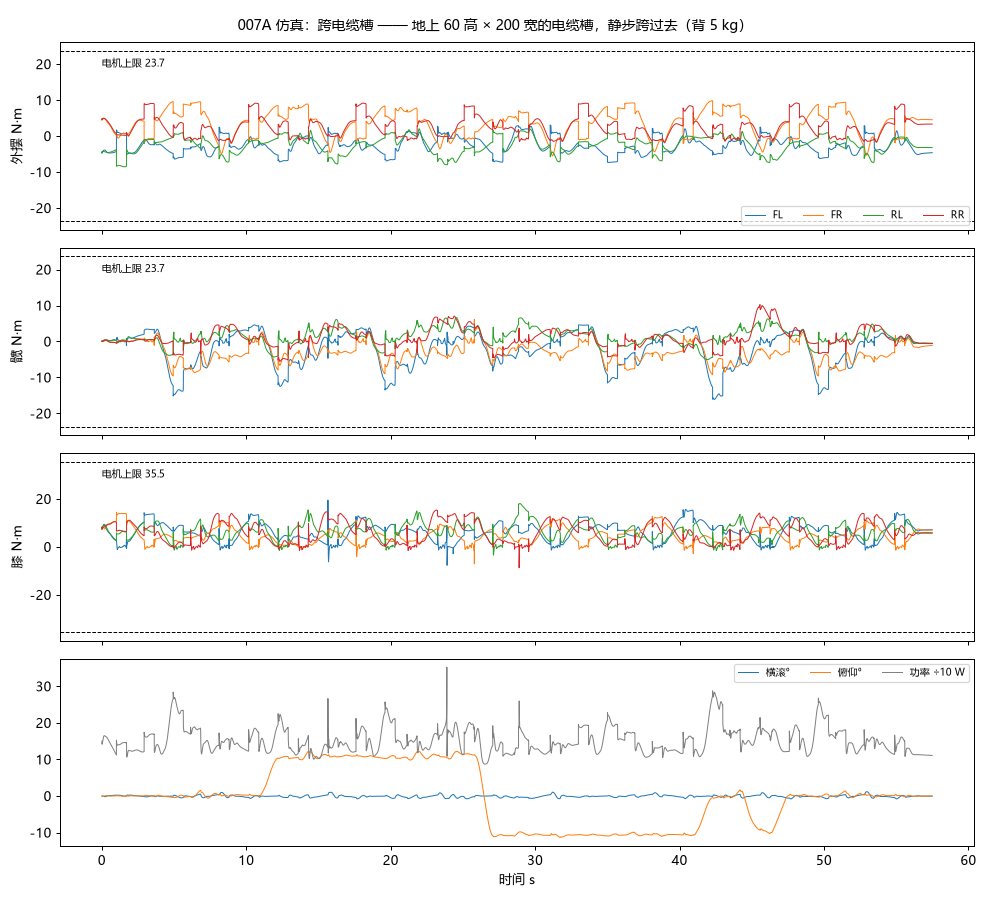
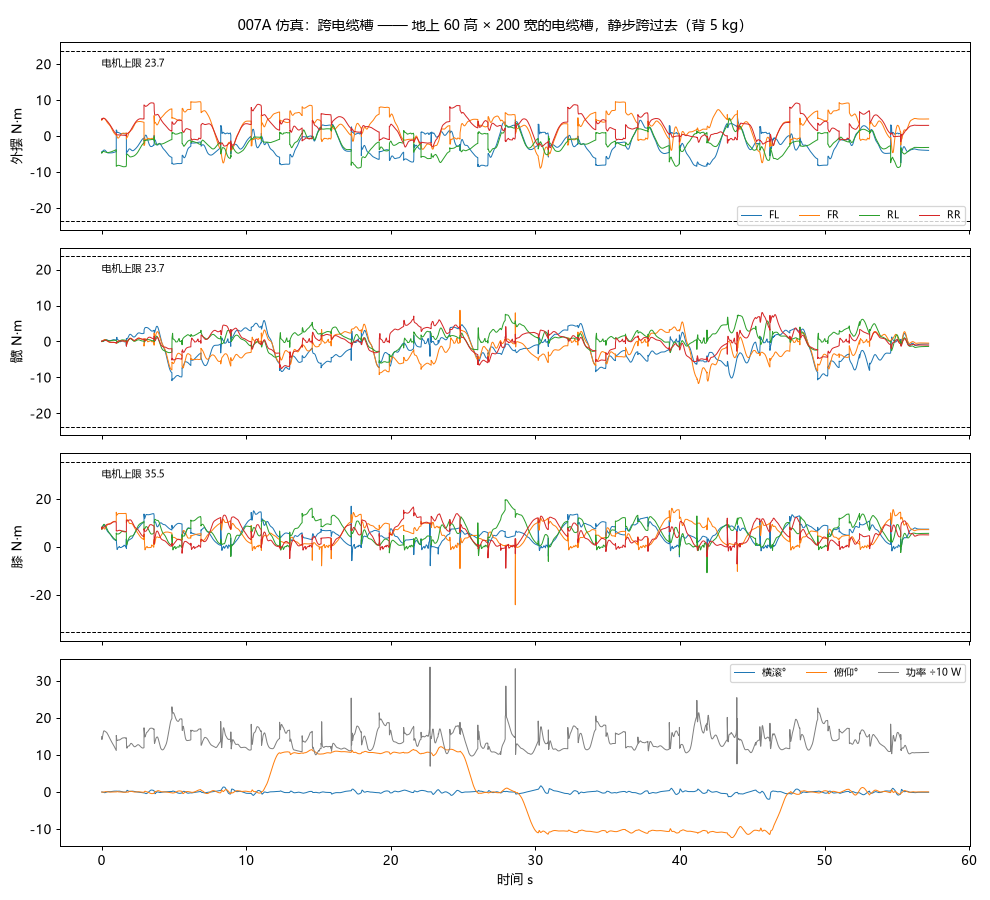
007A 仿真第二版：机身高度/俯仰按需再挑、撑脚跟随实际位置；正着上住宅楼梯、跨电缆槽通过，公共楼梯/倒着上/正着下仍摔；报告更新（腿结构不改）

diff --git a/007a/sim/run_sim.py b/007a/sim/run_sim.py
@@ -651,9 +651,38 @@ def plan_crawl(T, feet0, x_start, x_goal, com_fn, H, D, direction, ph_r, ph_f, c
     def legs_ok(x, i, feet):
         return min(leg_check(hip2d(LEGS[j], x), np.array([feet[j][0], feet[j][2]]), T) for j in range(4) if j != i)
 
+    def hip_at(leg, x, z, th):
+        h = np.array([x, 0, z]) + rpy_mat(0, -th) @ np.array([SIDE[leg][0] * HX, 0, 0])
+        return np.array([h[0], h[2]])
+
+    def pose_margin(x, z, th, i, feet, swing_pts):
+        """机身在 (x, z, th) 时：撑着的腿 + 跨的那条腿（抬到最高的两个点）离台阶 / 够不够得着的最小余量。"""
+        m = min(leg_check(hip_at(LEGS[j], x, z, th), np.array([feet[j][0], feet[j][2]]), T) for j in range(4) if j != i)
+        if i >= 0:
+            m = min([m] + [leg_check(hip_at(LEGS[i], x, z, th), q, T) for q in swing_pts])
+        return m
+
+    def best_pose(x, z0, th0, i, feet, swing_pts, prev_off):
+        """机身高度、俯仰在规则给的值附近再挑：高低 ±5 cm、俯仰 ±10°（最多斜 22°，背上货不滑）。
+        上下楼梯的开头、结尾机身在“变坡”，规则给的高度 / 俯仰常常让腿拉太直或收太紧，这里补上。
+        跟上一步比，改的量每步最多变 2 cm / 5°（不然两步之间机身猛地一抬一低会翻）；余量够了（≥ 2 cm）就挑跟上一步最接近的。"""
+        best = None
+        for dz in np.arange(-0.05, 0.0501, 0.01):
+            for dth in np.radians(np.arange(-10, 10.01, 2.5)):
+                if abs(dz - prev_off[0]) > 0.0201 or abs(dth - prev_off[1]) > math.radians(5.01):
+                    continue
+                th = float(np.clip(th0 + dth, -math.radians(22), math.radians(22)))
+                m = pose_margin(x, z0 + dz, th, i, feet, swing_pts)
+                key = (min(m, 0.02), -abs(dz - prev_off[0]) - 0.2 * abs(dth - prev_off[1]) - 0.1 * abs(dz) - 0.02 * abs(dth))
+                if best is None or key > best[0]:
+                    best = (key, dz, dth, m)
+        return best[1], best[2], best[3]
+
     feet = [f.copy() for f in feet0]
     out = []
     y_prev = 0.0
+    prev_pose = None
+    off = (0.0, 0.0)
     for _, _, i, xb, xc in events:
         leg = LEGS[i]
         sup = [j for j in range(4) if j != i]
@@ -685,13 +714,32 @@ def plan_crawl(T, feet0, x_start, x_goal, com_fn, H, D, direction, ph_r, ph_f, c
         ss = np.linspace(min(old[0], xc) - 0.03, max(old[0], xc) + 0.03, 20)
         z_top = max(T.gnd(x) for x in ss) + FOOT_R + clear
         new = np.array([xc, old[1], T.gnd(xc) + FOOT_R])
-        lm = min(plan_leg[leg][2], legs_ok(bxy[0], i, feet),
-                 leg_check(hip2d(leg, bxy[0]), np.array([old[0], z_top]), T), leg_check(hip2d(leg, bxy[0]), np.array([xc, z_top]), T))
+        sw_pts = [np.array([old[0], z_top]), np.array([xc, z_top])]
+        m_rule = pose_margin(bxy[0], z + off[0] * 0.5, th + off[1] * 0.5, i, feet, sw_pts)
+        if m_rule >= 0.01:
+            dz, dth, pm = off[0] * 0.5, off[1] * 0.5, m_rule                 # 规则姿势（上一步改的量减半）够好：不再改
+        else:
+            dz, dth, pm = best_pose(bxy[0], z, th, i, feet, sw_pts, off)
+        off = (dz, dth)
+        for _ in range(3):                                              # 高度 / 俯仰改了，重心也跟着变：再对一次重心
+            z, th = body_pose(bxy[0])
+            z, th = z + dz, th + dth
+            bxy += want - com_fn(np.array([bxy[0], bxy[1], z]), th, lifted)
+        z, th = body_pose(bxy[0])
+        z, th = z + dz, th + dth
+        stab = float(tri_margin(tri, com_fn(np.array([bxy[0], bxy[1], z]), th, lifted)))
+        pm = min(pm, pose_margin(bxy[0], z, th, i, feet, sw_pts))
+        if prev_pose is not None:                                       # 从上一个姿势挪过来的半路上也查一遍（撑着的四条腿）
+            pm = min(pm, pose_margin((prev_pose[0] + bxy[0]) / 2, (prev_pose[1] + z) / 2, (prev_pose[2] + th) / 2, -1, feet, []))
+        prev_pose = (bxy[0], z, th)
+        lm = pm                                                          # 落脚点规划（leg_dp）按规则姿势算，这里按挑过的姿势真查
         out.append((i, np.array([bxy[0], bxy[1], z]), th, new, z_top, min(lm, stab - MARGIN + M_OK), lm, stab))
         feet[i] = new
     # 收尾：最后一次跨完，机身走到终点（四只脚撑着）
     z, th = body_pose(x_goal)
-    out.append((None, np.array([x_goal, 0.0, z]), th, None, None, min(legs_ok(x_goal, -1, feet), M_OK), legs_ok(x_goal, -1, feet), 1.0))
+    dz, dth, pm = best_pose(x_goal, z, th, -1, feet, [], off)
+    z, th = z + dz, th + dth
+    out.append((None, np.array([x_goal, 0.0, z]), th, None, None, min(pm, M_OK), pm, 1.0))
     return out
 
 
@@ -790,6 +838,10 @@ def crawl(s, T, x_goal, rec, H=0.25, D=0.26, direction=1, t_shift=0.5, t_swing=0
             s.step(p, R, tg, st)
         run(t_swing, swing)
         feet_w[i] = new
+        act = s.foot_world()
+        for j in range(4):
+            if j != i and np.linalg.norm(act[j] - feet_w[j]) < 0.05:
+                feet_w[j] = act[j].copy()                               # 撑着的脚滑了一点：就按它现在的位置撑，不往回拽
         if os.environ.get("CRAWL_DEBUG"):
             Rn = quat_mat(s.d.qpos[3:7])
             act = s.foot_world()

diff --git a/docs/机械狗007A/仿真报告.md b/docs/机械狗007A/仿真报告.md
@@ -34,3 +34,26 @@
 - A：改结构让正着上楼梯也有余量（比如小腿靠膝那一段做细、膝盖帽做小，或大腿 / 小腿各加长 10 mm 再算一遍）。
 - B：保持结构，楼梯按“倒着上、正着下”，尾部加一个测距 / 深度传感器。
 - C：继续改静步控制器，把公共楼梯、电缆槽、倒着上都跑通。
+
+## 第二版：走楼梯程序改版（2026-10-30）
+
+**结构结论（改正上一版）**：上一版说“正着上楼梯余量只剩 2–6 mm”是把小腿当直圆棍算的，算悲观了。按真实腿外形（髋盘 + 大腿 + 膝圆头 + 带折弯的小腿）把所有走法搜一遍：正着上住宅楼梯余量 18 mm、公共楼梯 20 mm。
+小腿的折弯是有用的（改直反而只剩 11 / 13 mm），**腿的结构不改**。对比图：小腿外形对比.png；检查程序：007a/sim/leg_clear.py。
+
+**程序改了什么**（007a/sim/run_sim.py）：
+1. 碰撞检查用真实腿外形（轮廓每 4 mm 一个点），离台阶 ≥ 5 mm；膝角放到 40–165°。
+2. 节奏：机身每走半个踏步停一次，左右两条腿在同一处先后跨；前腿、后腿的跨步时机分开挑。
+3. 稳：抬腿前机身左右挪 ±12 cm、前后挪 ±10 cm，重心离三角形每条边 ≥ 5 cm；一对腿先跨哪条挑稳的。
+4. 机身高度 / 俯仰：规则姿势不够好（< 1 cm）时，在 ±5 cm / ±10° 里再挑，每步最多变 2 cm / 5°。
+5. 跨的腿按机身**实际**姿势算落点（以前按“应该在的”姿势，机身一滑脚就落偏，越走越歪 —— 这是电缆槽以前摔的原因）；撑着的脚滑了 5 cm 以内就按实际位置撑。
+
+| 场景 | 结果 | 峰值扭矩 外摆 / 髋 / 膝 | 说明 |
+|---|---|---|---|
+| 住宅楼梯·正着上 | ✅ 走完，升高 716 mm | 21.3 / 16.7 / 33.8 | 腿还会短时擦台阶边；膝短时到 33.8 / 35.5 |
+| 跨电缆槽 60 mm | ✅ 通过，没碰 | 9.6 / 11.7 / 24.1 | 晃 2° |
+| 公共楼梯·正着上 | ❌ 第 13 步摔 | — | 第一级到第二级之间，规划找不到又稳又不碰的落脚 |
+| 住宅楼梯·倒着上 | ❌ 第 8 步摔 | — | |
+| 住宅楼梯·正着下 | ❌ 第 25 步摔 | — | 快到底时脚滑 |
+
+**判断**：摔的地方电机扭矩都没到上限，是这个“一次抬一条腿、事先排好”的步态程序能力到头了，不是结构或电机不够。
+真机走楼梯一般用强化学习训练出来的步态（边走边看、边调），以后单独做。
